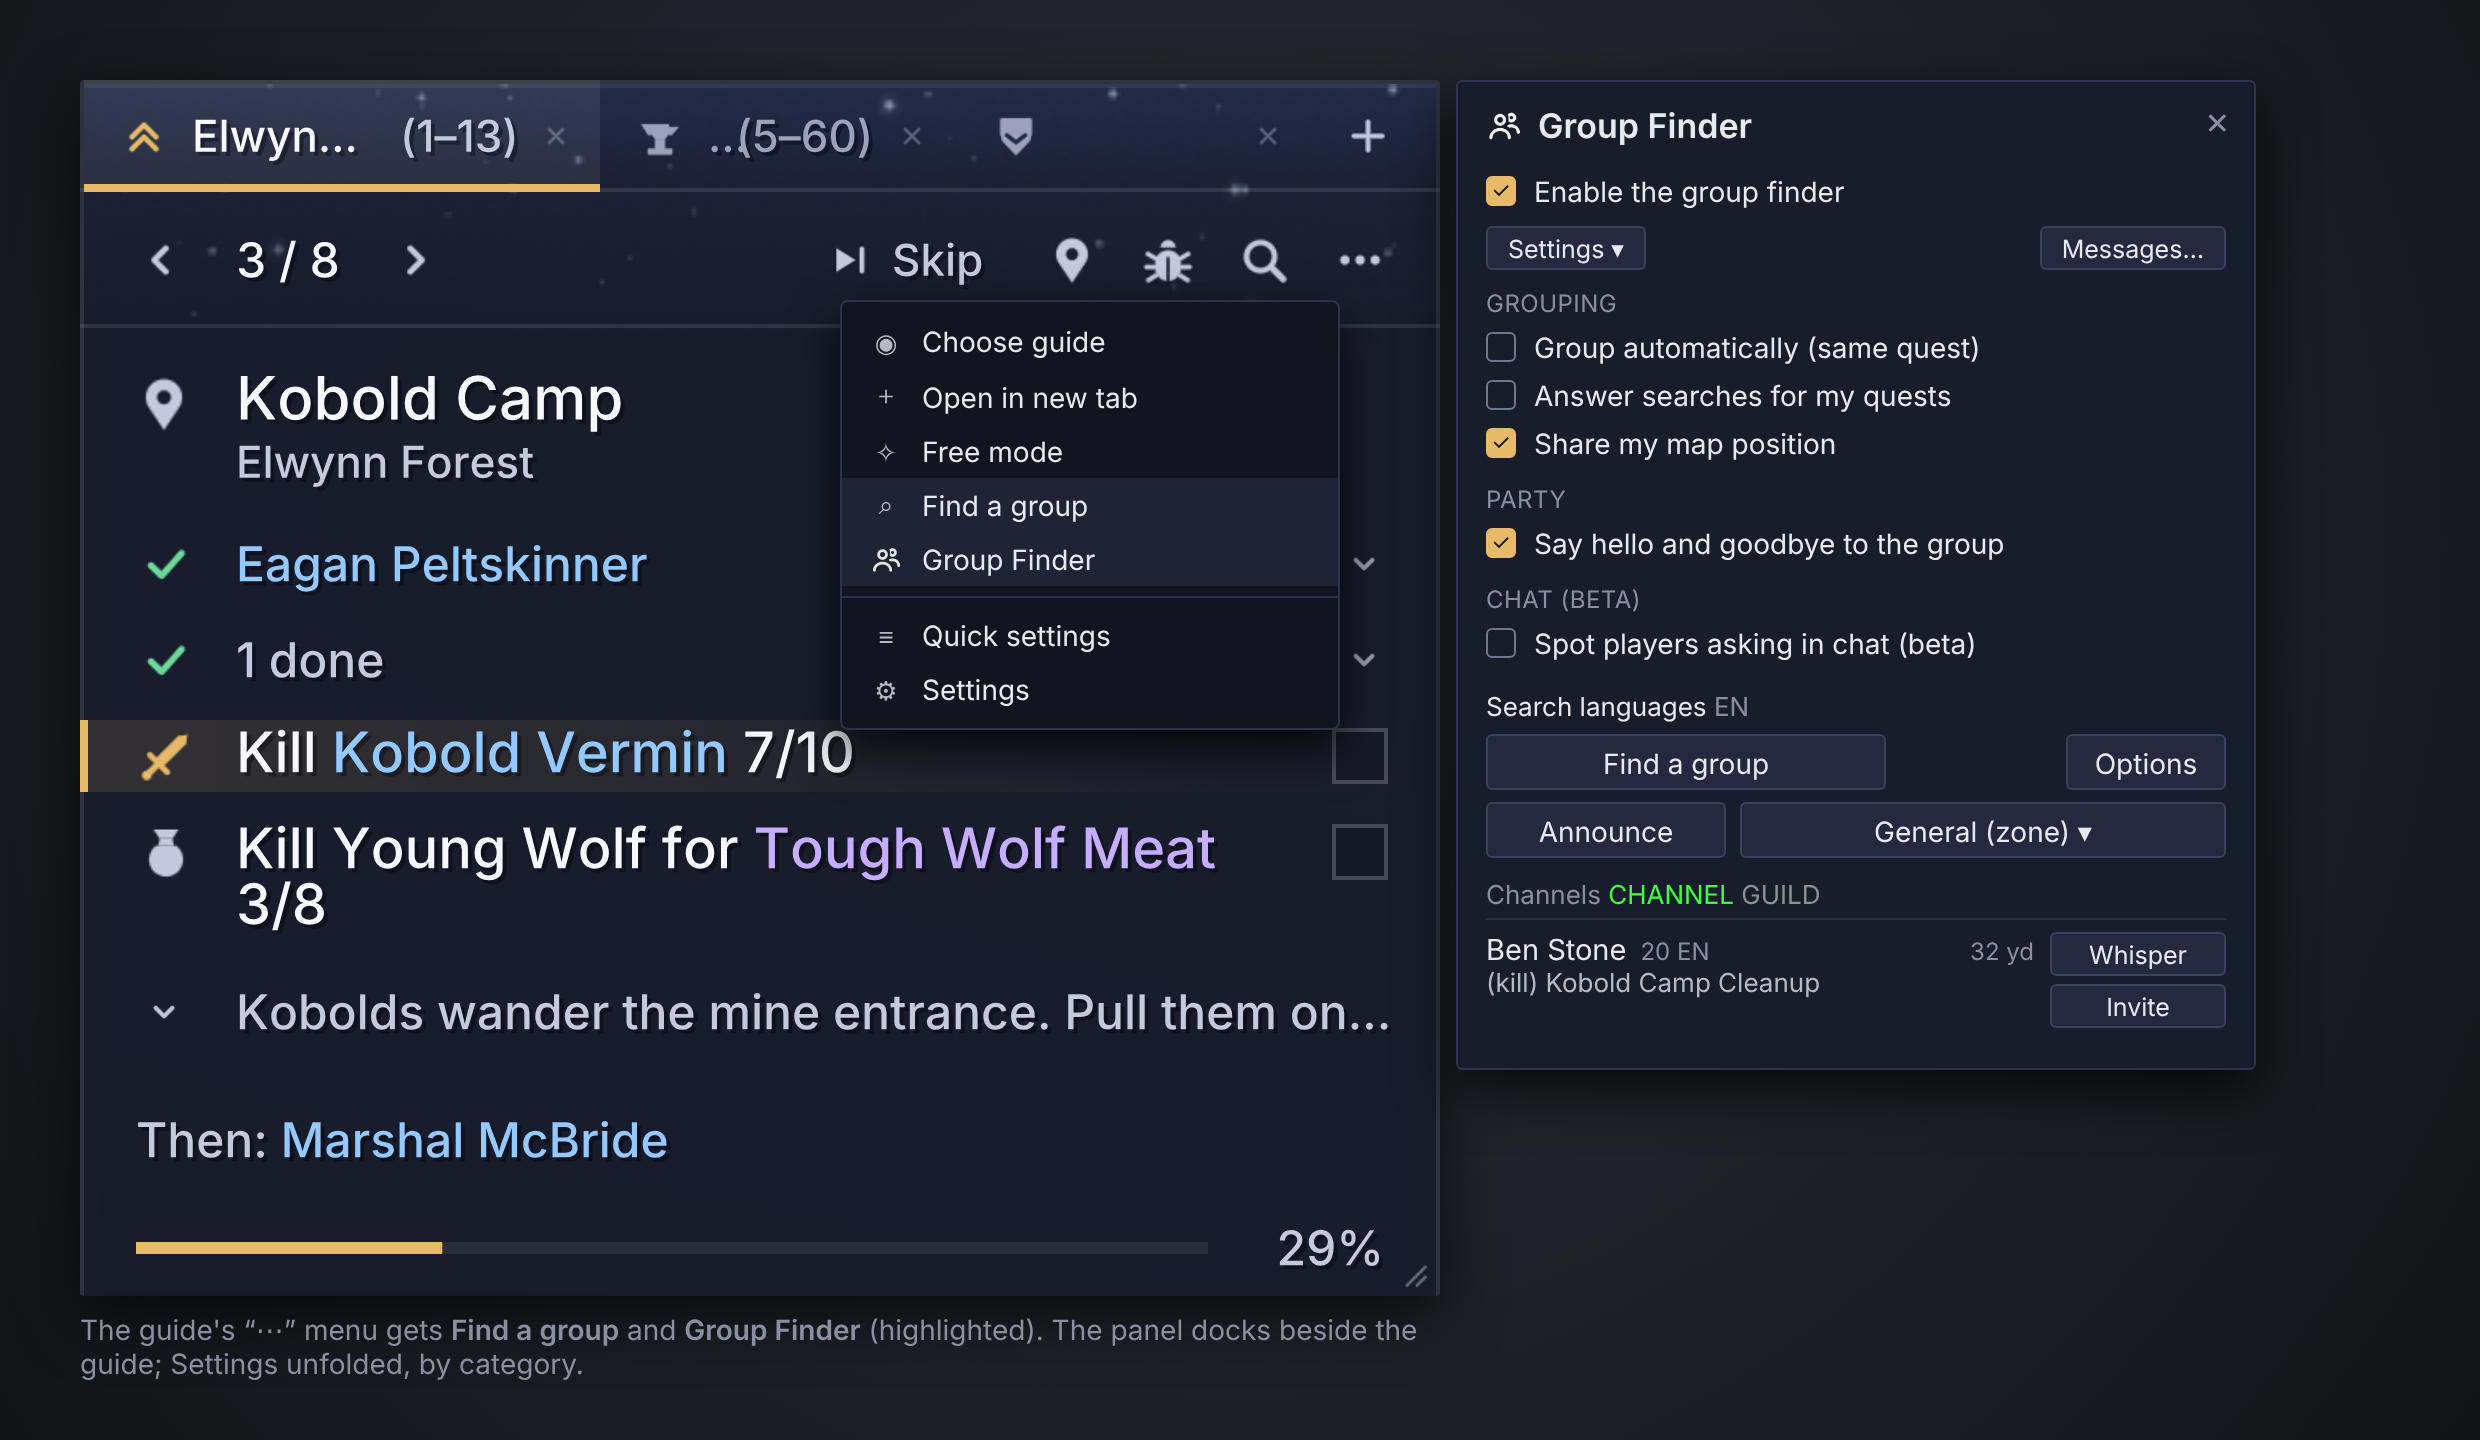
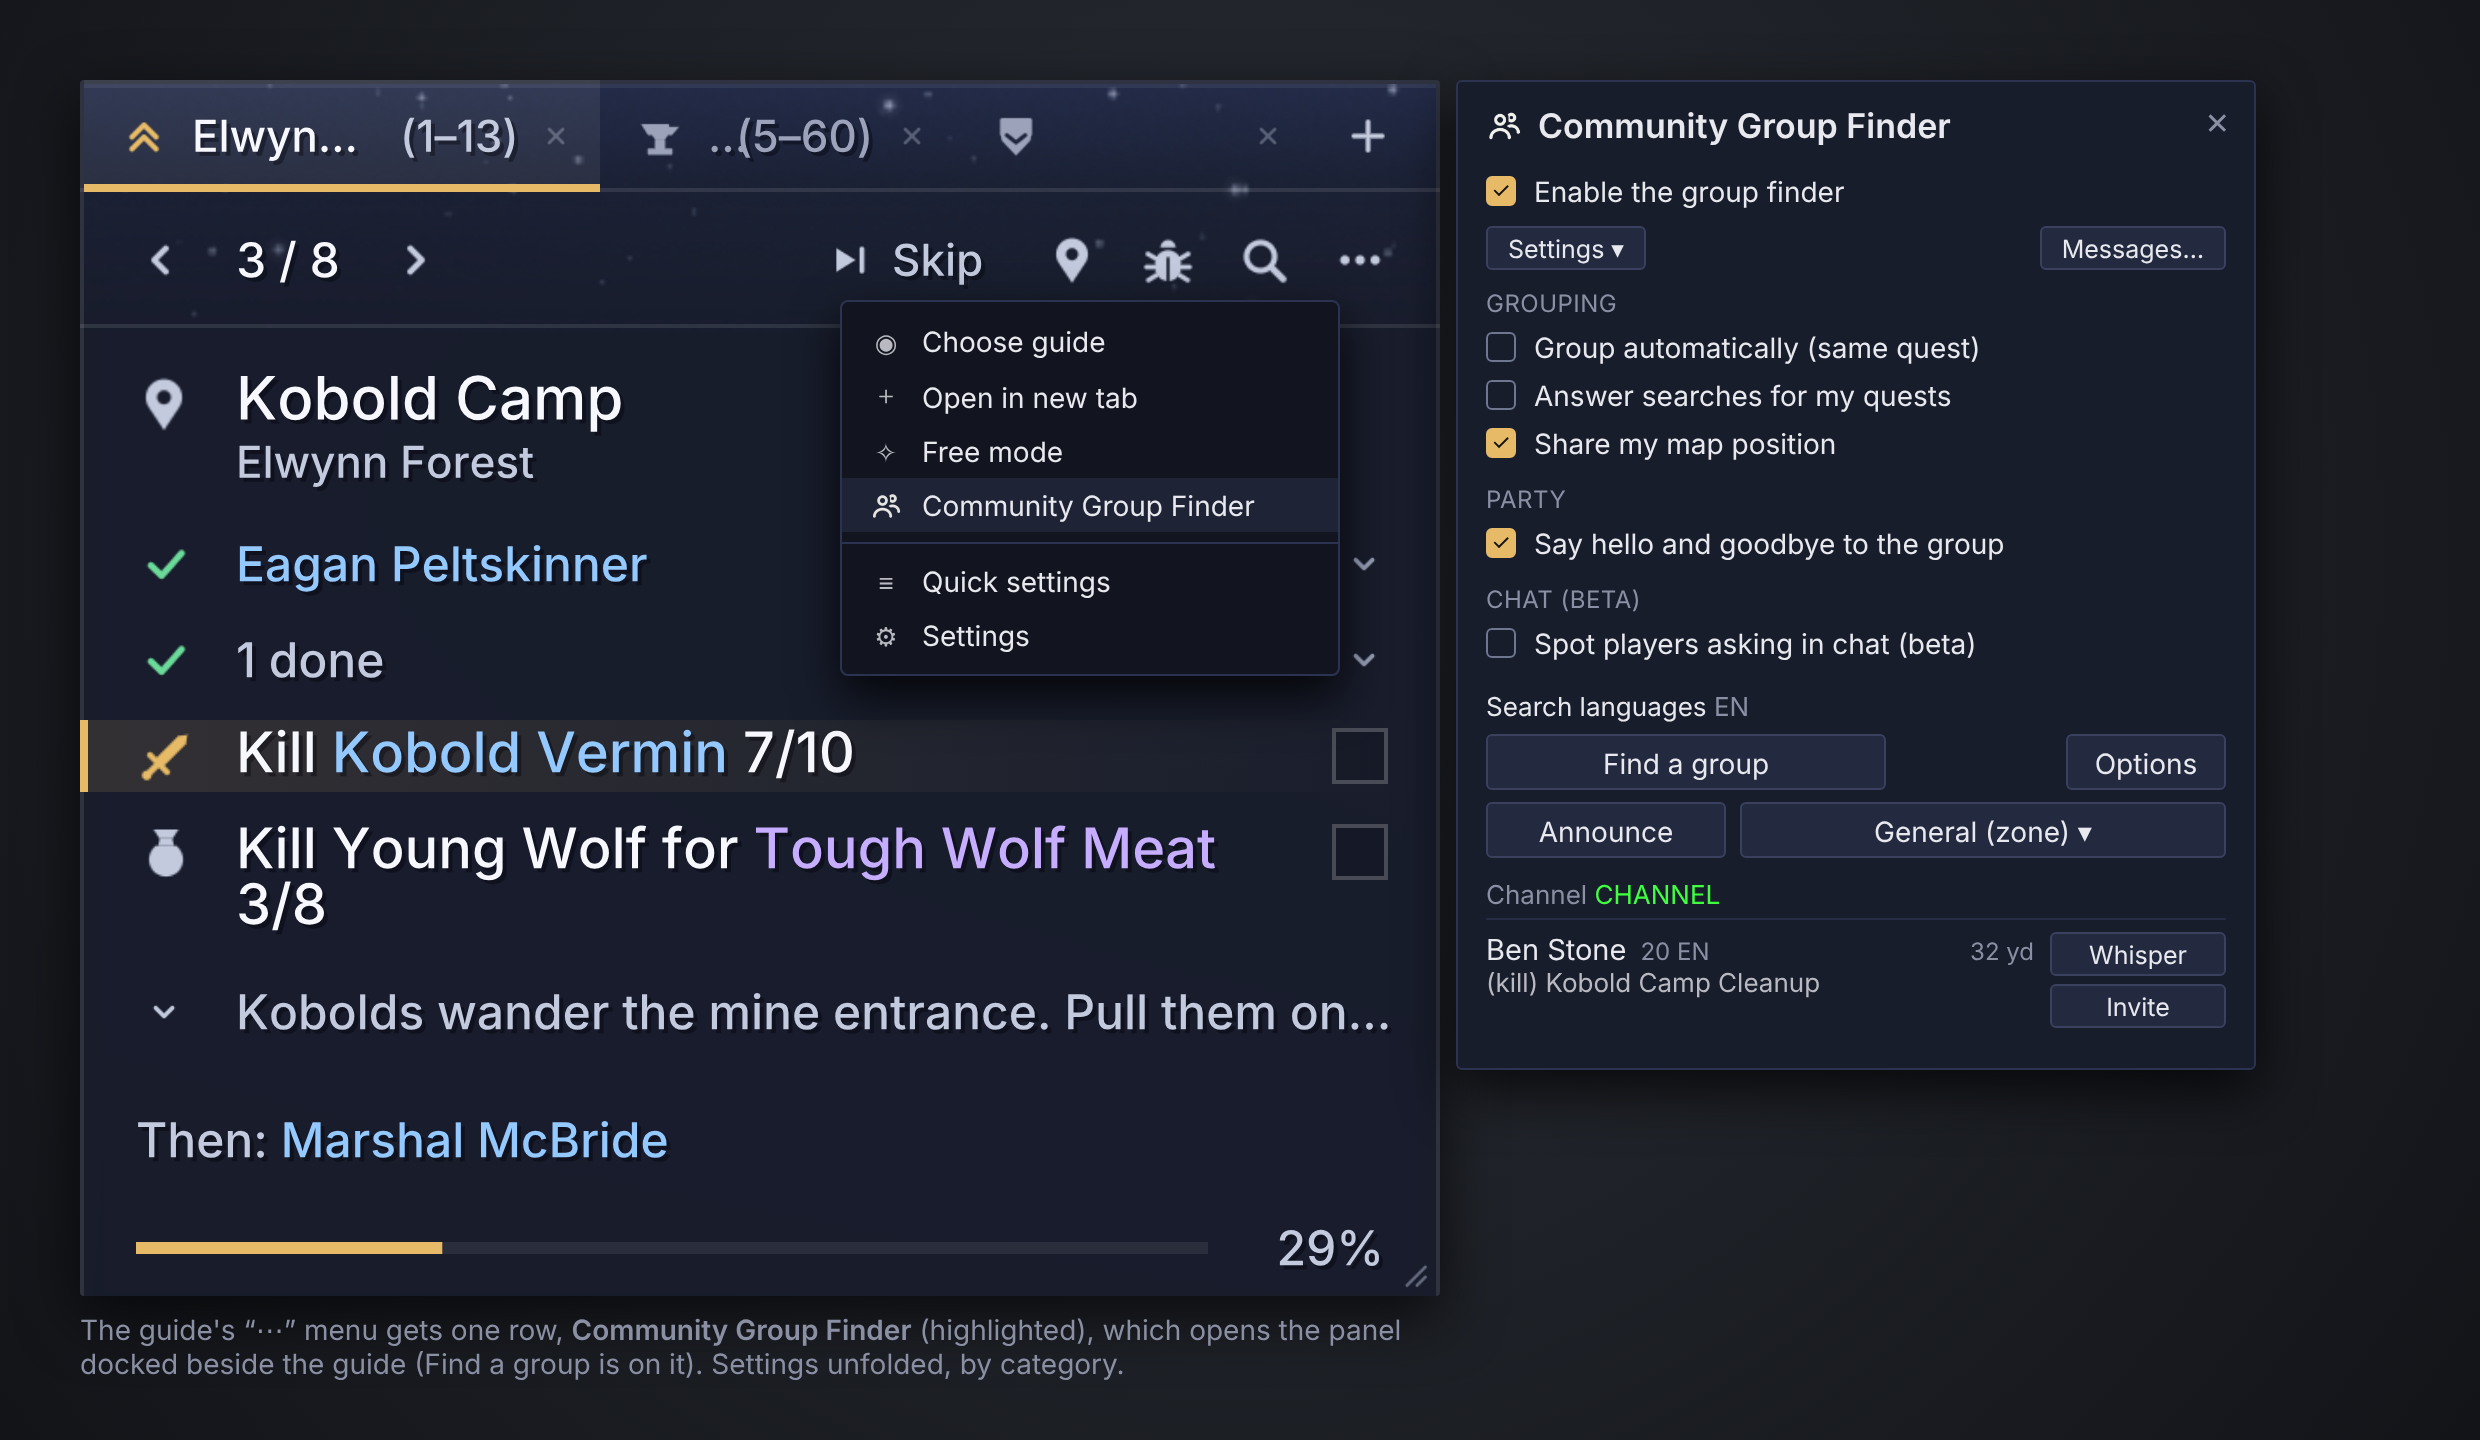
Community Group Finder: one channel, one guide menu row
Renamed so that it is not taken for the game's own Group Finder, which
Polestar already points to. Searches go over the finder's hidden channel
only (no guild): the players who run it all share it; answers and
updates go by whisper. The guide's menu gets a single row that opens
the panel, where Find a group is. Auto-group stays an opt-in setting.

Claude-Session: https://claude.ai/code/session_01VS3NpwcNzSMZvBdfXbvdsi

diff --git a/README.md b/README.md
@@ -1,4 +1,4 @@
-# Group Finder for Polestar (PSGroupFinder)
+# Community Group Finder for Polestar (PSGroupFinder)
 
 An **optional** module for [Polestar](https://github.com/fitzforge/polestar) (WoW: Forever 1.60.1):
 it finds players who are on **the same quest as you, near you** (kills, named elites, loot from
@@ -19,18 +19,18 @@ without it (standalone window). Licence: GPL-3.0-or-later.
    **Assets**, not “Source code”), or build it with `./build.sh`.
 3. Unzip it into `World of Warcraft/_forever_/Interface/AddOns/`. The final path must be exactly
    `AddOns/PSGroupFinder/PSGroupFinder.toc`.
-4. Fully restart the game (a `/reload` does not load a new addon), tick **Group Finder for
-   Polestar** in the AddOns list, then `/psgf on`.
+4. Fully restart the game (a `/reload` does not load a new addon), tick **Community Group
+   Finder for Polestar** in the AddOns list, then `/psgf on`.
 
 ## Features
 
-- **Find a group**: **Find a group** in the Polestar guide's “⋯” menu (next to it, **Group
-  Finder** opens the panel), the panel's **Find a group**, a key binding or `/psgf search`. A search is a
+- **Find a group**: **Community Group Finder** in the Polestar guide's “⋯” menu opens the panel,
+  whose **Find a group** starts the search; also a key binding or `/psgf search`. A search is a
   session on your relevant quests: a quest leaves it once its objectives are done, the others
   stay, and it stops when none remain, on **Stop**, in an instance or when your group is full.
 - **Results**: players found, best first (shared quests, Polestar's current step, distance), with
-  their language, **Whisper** and **Invite**. Searches go over the addon's hidden channel and
-  your guild (no /say or /yell). A player already in a group shows **Ask** instead:
+  their language, **Whisper** and **Invite**. Searches go over the addon's hidden channel, which
+  every player running it joins (no /say, /yell or guild). A player already in a group shows **Ask** instead:
   you cannot invite them, so it whispers a request to be invited. Invite and Ask also whisper a
   short message. Only on your click.
 - **Players on this quest**: the small button under a Polestar objective icon (or Alt-click on
@@ -63,7 +63,7 @@ without it (standalone window). Licence: GPL-3.0-or-later.
 ## Options
 
 The panel shows only **Enable**; the rest folds under **Settings**, by category, as on the
-“Group Finder” page in Polestar's options:
+“Community Group Finder” page in Polestar's options:
 
 | Category | Settings |
 |---|---|
@@ -82,12 +82,12 @@ search`, `/psgf stop`, `/psgf announce`, `/psgf on|off`, `/psgf test` (tests the
 ## What is sent
 
 Only while the addon is on, as hidden addon messages (prefix `PSGF`, ≤ 255 bytes), on the hidden
-`PSGroupFinder` channel and the guild, answers by whisper. No /say or /yell: Forever's client
-refuses addon messages there. The formats are in [`Protocol.lua`](PSGroupFinder/Protocol.lua).
+`PSGroupFinder` channel, answers and updates by whisper. No /say or /yell (Forever's client
+refuses addon messages there) and no guild: the finder talks to the players who run it. The formats are in [`Protocol.lua`](PSGroupFinder/Protocol.lua).
 
 | Message | When | Contents |
 |---|---|---|
-| Search `S` | your click / key bind, at most every 20 s; when a quest leaves your search, sent again to the same places and the players found | up to ~12 quest IDs with their kind (kill, named, loot, group), map, x/y (if shared), level, class, party size, flags (auto-group, faction), client language |
+| Search `S` | your click / key bind, at most every 20 s; when a quest leaves your search (also while grouped), sent again on the channel and to the players found | up to ~12 quest IDs with their kind (kill, named, loot, group), map, x/y (if shared), level, class, party size, flags (auto-group, faction), client language |
 | Reply `R` | only with “Answer searches for my quests” on (off by default): whisper to the searcher, at most once per 20 s per player | only the IDs of **shared** quests, your map/position, level, class, flags, language |
 | End `X` | your search ends (last quest done, stop, group full) | your session id: the others drop you from their list |
 | Request `G` | auto-group (off by default), whispered to the player who should invite you | the IDs of the shared quests |
@@ -102,9 +102,9 @@ only on your click or key.
 ## Channels and detection
 
 The hidden `PSGroupFinder` channel is joined 6 s after login (so it does not take /1 or /2) and
-removed from the chat tabs; a search goes out on it and on the guild. The panel colours each
-channel from what happened: green = our own message came back, yellow = accepted with no echo,
-red = refused, grey = unavailable; `/psgf test` checks both on request and details the result.
+removed from the chat tabs; searches go out on it. The panel colours it from what happened:
+green = our own message came back, yellow = accepted with no echo, red = refused, grey = not
+joined yet; `/psgf test` checks it on request and details the result.
 Rate: a small queue (burst of 4, then ~0.8 msg/s), retried on `AddonMessageThrottle`.
 
 ## Integration with Polestar
@@ -113,8 +113,8 @@ Rate: a small queue (burst of 4, then ~0.8 msg/s), retried on `AddonMessageThrot
 |---|---|---|
 | `Polestar.API.version == 1`, `Polestar.On("STEP_CHANGED" / "GUIDE_CHANGED" / "TABS_CHANGED")`, `Polestar.Compat.IsOnQuest` / `IsQuestReadyForTurnIn` | **public API** (docs/API.md) | know when the step changes, filter quests |
 | `Polestar.Theme.Skin`, `Font`, `Color`, `Hex`, `OnChanged`, `GuideParts().window` | **public Skin API** | paint our frames, dock beside the guide window |
-| `Polestar.RegisterOptions` (with the public `icon` and `help` fields) | **semi-internal** (ARCHITECTURE.md “Options registry”), under `pcall` | “Group Finder” page in Polestar's options, one section per category |
-| `Polestar.Free.MenuItems()` | **internal**, wrapped under `pcall` (the original runs first) | our two rows in the guide's “⋯” menu |
+| `Polestar.RegisterOptions` (with the public `icon` and `help` fields) | **semi-internal** (ARCHITECTURE.md “Options registry”), under `pcall` | “Community Group Finder” page in Polestar's options, one section per category |
+| `Polestar.Free.MenuItems()` | **internal**, wrapped under `pcall` (the original runs first) | our row in the guide's “⋯” menu |
 | `UI.ShowOptions(key)`, `UI.Options.Relayout`, `Widgets.RefreshAll`, `Options.Kit.pages` / `Grouped.NavItems` / `Widgets.NavRowAfter` | **internal**, under `pcall` | panel “Options” button, language rows folding at once, sidebar icon |
 | `Polestar.Engine.GetGuide()` / `GetLiveStep()` and `step.goals[].quest`, `Compat.GetPlayerMapPosition()` | **internal**, under `pcall` | current step's quests first, position (otherwise `C_Map`) |
 | `GuideParts().rows` and on each row `psGoal`, `Icon`, `Check`, `Alt`; `Polestar.QuestClickTips` / `QuestRowClick` | rows documented in the skin reference, the rest **internal**; wrapped under `pcall`, the original always runs first | goal-row button, tooltip help line and Alt-click |
@@ -125,7 +125,7 @@ Polestar, or with another API version, the addon is a standalone window.
 ## Known limits / to test in game
 
 - **CHANNEL**: searching players worked over the hidden channel in a two-player test on
-  Forever; if a client refuses it, `/psgf test` says so and only the guild remains.
+  Forever; if a client refuses it, `/psgf test` says so and searching cannot work there.
 - **Accepting an invitation** with `AcceptGroup()` is documented for Classic but **unconfirmed on
   Forever**; if the client refuses, the invitation window stays and a chat line says so.
 - Trial / veteran accounts cannot send addon messages.

diff --git a/CHANGELOG.md b/CHANGELOG.md
@@ -2,6 +2,12 @@
 
 ## Unreleased
 
+- **Community Group Finder**: the new name, so that it is not taken for the game's own Group
+  Finder (key I), which Polestar already points to.
+- **One channel**: searches go over the finder's hidden channel only (no guild), answers and
+  updates by whisper. Auto-group stays an option the player turns on.
+- **One row in the guide menu**: “Community Group Finder” opens the panel, where Find a group
+  is; the separate Find a group row is gone.
 - **No /say or /yell for searches**: Forever's client refuses addon messages there; searches go
   over the hidden channel and the guild, answers by whisper.
 - **Nothing acts on its own by default**: “Answer searches for my quests” is now off by default,
